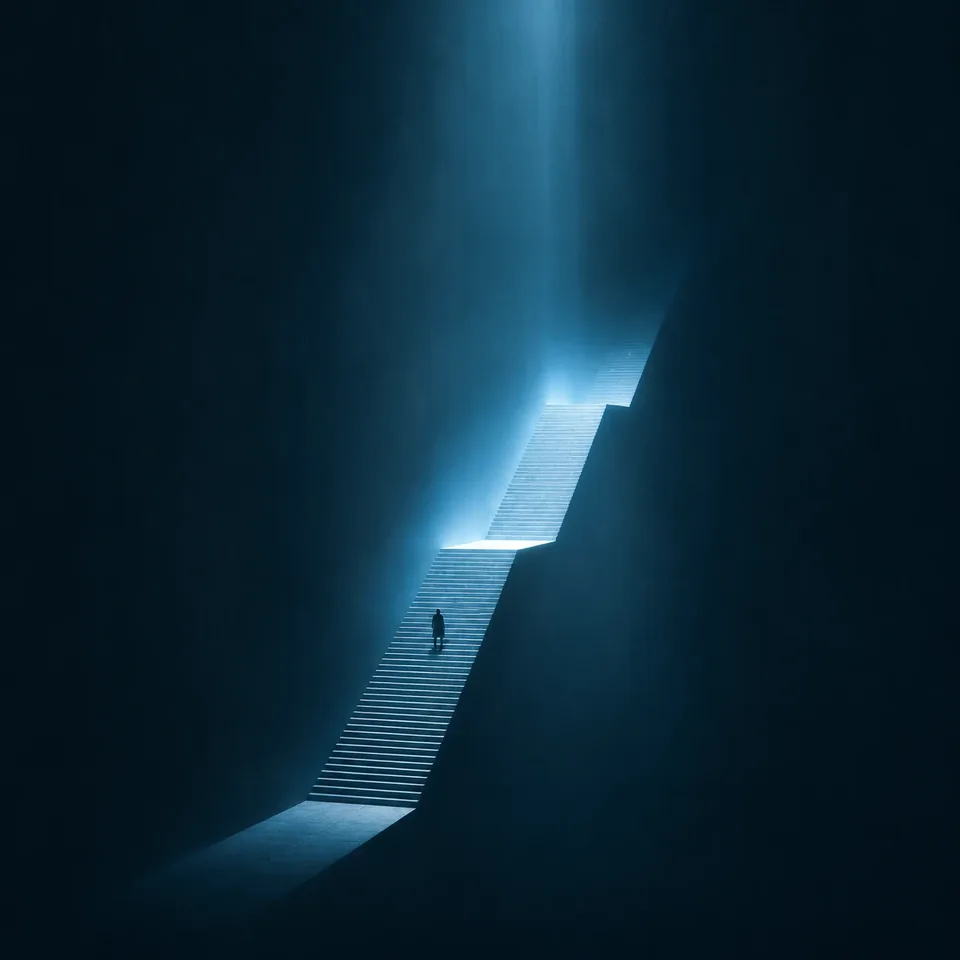
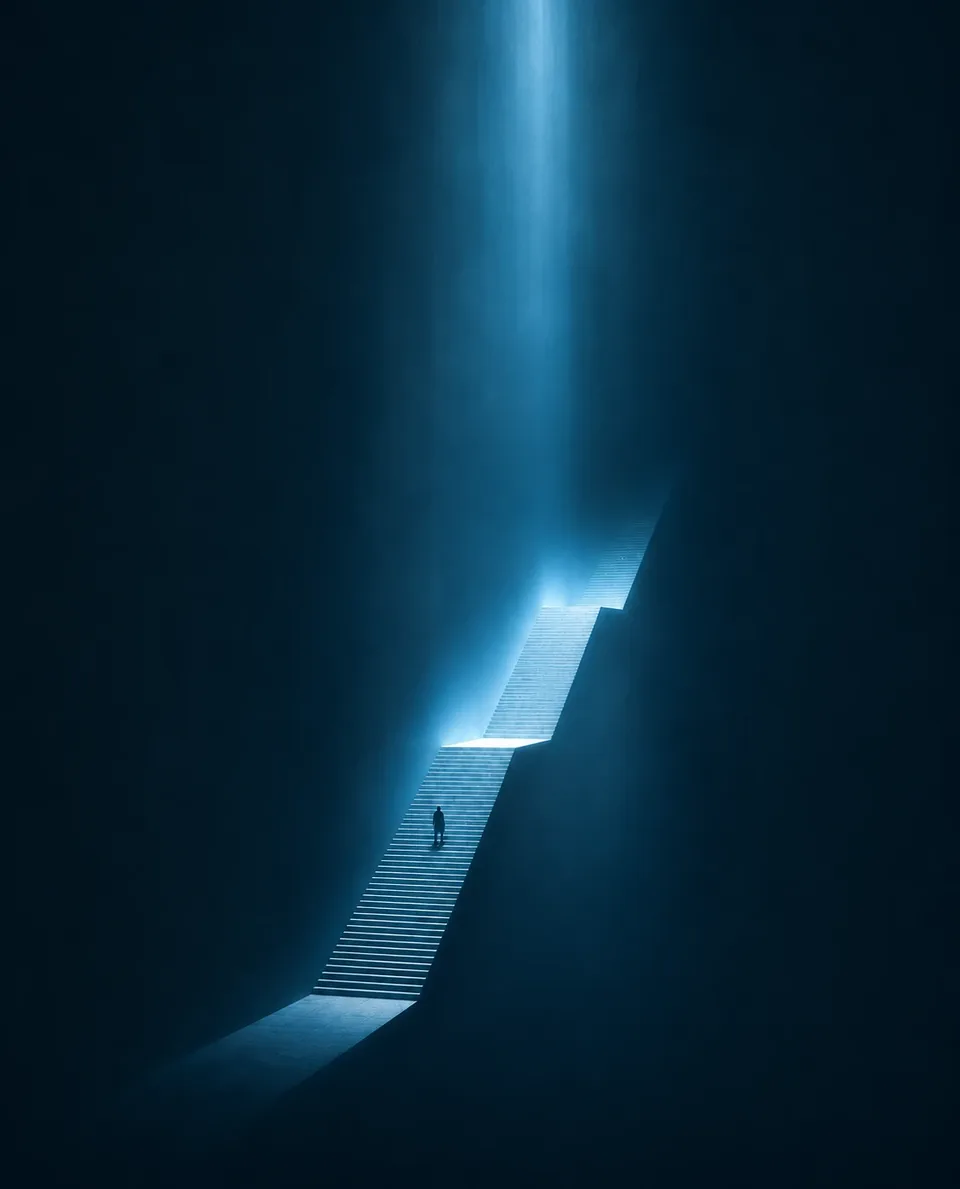
Home How we work: taller staircase image at the original 4:5 size
Claude-Session: https://claude.ai/code/session_01NeeFoU29LrA2PUpXGkrkmw

Changed region(s): [[0.3125, 0.3125, 0.6875, 0.875], [0.4688, 0.0, 0.625, 0.3125], [0.3438, 0.875, 0.375, 0.9062]]

diff --git a/src/premium.css b/src/premium.css
@@ -186,3 +186,7 @@ html body .b-loader img{width:min(19rem,70vw);height:auto}
    surface with a soft teal glow rising from the bottom-right corner. Text styles are unchanged. */
 html body .b-cta-band,html body .b-cta-band--studio{position:relative;isolation:isolate;overflow:hidden;background:#0b0e0f}
 html body .b-cta-band::before{content:'';position:absolute;z-index:-1;right:-15%;bottom:-60%;width:min(60vw,50rem);aspect-ratio:1;border-radius:50%;background:radial-gradient(closest-side,rgba(90,201,199,.28),transparent);pointer-events:none}
+
+/* Home "How we work" image: fixed 4:5 frame (the original slot size) */
+html body .b-engagement-preview .b-image-frame{aspect-ratio:4/5;height:auto}
+html body .b-engagement-preview .b-image-frame picture,html body .b-engagement-preview .b-image-frame img{display:block;width:100%;height:100%;object-fit:cover}

diff --git a/src/baseline/data.js b/src/baseline/data.js
@@ -20,7 +20,7 @@ export const imagery = {
   creative: image('creative-tree', 1254, 1254),
   advertising: image('advertising-screen', 1254, 1254),
   technology: image('technology-robot', 1254, 1254),
-  howWeWork: image('how-we-work-stairs', 1254, 1254),
+  howWeWork: image('how-we-work-stairs', 1127, 1396),
 }
 
 export const navigation = [
